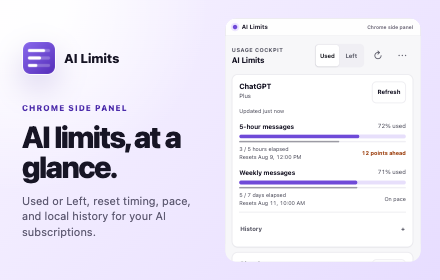
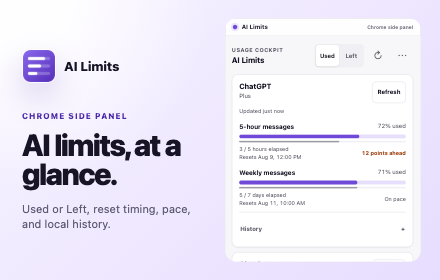
docs: align store feature callouts

Changed region(s): [[0.0295, 0.3714, 0.4432, 0.8571], [0.0295, 0.1429, 0.2955, 0.3143]]

diff --git a/scripts/publication-contract.test.js b/scripts/publication-contract.test.js
@@ -14,6 +14,8 @@ const securityFallback =
   "If that feature is unavailable, open a minimal issue requesting a private contact route without disclosing the vulnerability or sensitive details.";
 const publicRouteGate =
   "After the repository is public and before Chrome Web Store submission, verify the homepage, privacy policy, and support URLs are reachable in a signed-out browser.";
+const paceAvailabilityStatement =
+  "For quota windows with a reliable reset time plus either a start time or window duration, a pace signal compares quota consumed with elapsed time.";
 const kimiAutoRefreshStatement =
   "Kimi automatic refresh is best-effort and may not always work; a manual Connect or Refresh may briefly open an inactive Kimi tab in the background to recover the session.";
 const kimiAutoRefreshStatementZh =
@@ -86,6 +88,7 @@ const valid = {
   listing: [
     ...listingDefaults.map(({ value }) => value),
     ...listingLinks.map(({ markdown }) => markdown),
+    paceAvailabilityStatement,
     publicRouteGate,
   ].join("\n"),
   license: "MIT License\n\nCopyright (c) 2026 wjcjttl",
@@ -218,6 +221,16 @@ const nonRenderedHistoryDisclosures = [
 ];
 
 describe("publication content", () => {
+  it("requires the store listing to describe the actual pace inputs", () => {
+    const errors = validatePublicationDocuments({
+      ...valid,
+      listing: valid.listing.replace(paceAvailabilityStatement, ""),
+    });
+    expect(errors).toContain(
+      "Store listing is missing the reset-time-or-duration pace qualification.",
+    );
+  });
+
   it.each(kimiFaqStatements)(
     "requires the rendered Kimi automatic-refresh limitation in $key",
     ({ key, statement, error }) => {

diff --git a/store-assets/preview/copy.ts b/store-assets/preview/copy.ts
@@ -38,7 +38,7 @@ export const previewContent: Record<PreviewLanguage, PreviewContent> = {
     promo: {
       eyebrow: "Chrome side panel",
       title: "AI limits, at a glance.",
-      description: "Used or Left, reset timing, pace, and local history for your AI subscriptions.",
+      description: "Used or Left, reset timing, pace, and local history.",
     },
     chromeSidePanelLabel: "Chrome side panel",
     pacingNotes: ["Used or Left", "Time elapsed", "Pace signal"],
@@ -72,7 +72,7 @@ export const previewContent: Record<PreviewLanguage, PreviewContent> = {
     promo: {
       eyebrow: "Chrome 侧边栏",
       title: "AI 用量，一目了然。",
-      description: "集中查看已用或剩余、重置时间、用量节奏和本地历史。",
+      description: "查看已用或剩余、重置时间、用量节奏和本地历史。",
     },
     chromeSidePanelLabel: "Chrome 侧边栏",
     pacingNotes: ["已用或剩余", "已过时间", "用量节奏"],

diff --git a/store-assets/preview/copy.test.ts b/store-assets/preview/copy.test.ts
@@ -15,4 +15,11 @@ describe("store artwork copy", () => {
     expect(previewContent.zh_CN.representativeLabel).toContain("英文");
     expect(previewContent.zh_CN.overview.title).toMatch(/[\u3400-\u9fff]/u);
   });
+
+  it("keeps promotional descriptions concise at half-size", () => {
+    expect(previewContent.en.promo.description.length).toBeLessThanOrEqual(60);
+    expect([...previewContent.zh_CN.promo.description].length).toBeLessThanOrEqual(
+      24,
+    );
+  });
 });

diff --git a/wxt.config.ts b/wxt.config.ts
@@ -4,7 +4,8 @@ export default defineConfig({
   modules: ["@wxt-dev/module-react"],
   manifest: {
     name: "AI Limits",
-    description: "One quiet cockpit for AI subscription limits.",
+    description:
+      "See ChatGPT, Claude, Kimi, and Cursor usage as Used or Left, reset timing, pace, and local quota history in one Chrome side panel.",
     minimum_chrome_version: "116",
     permissions: ["storage", "alarms", "sidePanel"],
     optional_host_permissions: [

diff --git a/STORE_LISTING.md b/STORE_LISTING.md
@@ -56,10 +56,10 @@ session.
 Providers use different conventions: some report quota consumed, while others
 report quota remaining. AI Limits normalizes them into a single display and lets
 the user switch between **Used** and **Left** without changing stored data. For
-quota windows that include both a reliable start and reset time, a pace signal
-compares the quota consumed with the elapsed part of that window. When either
-boundary is unavailable, the extension leaves pace unavailable instead of
-estimating it.
+quota windows with a reliable reset time plus either a start time or window
+duration, a pace signal compares quota consumed with elapsed time. When that
+timing information is unavailable, the extension leaves pace unavailable
+instead of estimating it.
 
 Each connected provider card includes a collapsed History control for local
 quota graphs. Successful normalized quota observations are stored locally for
